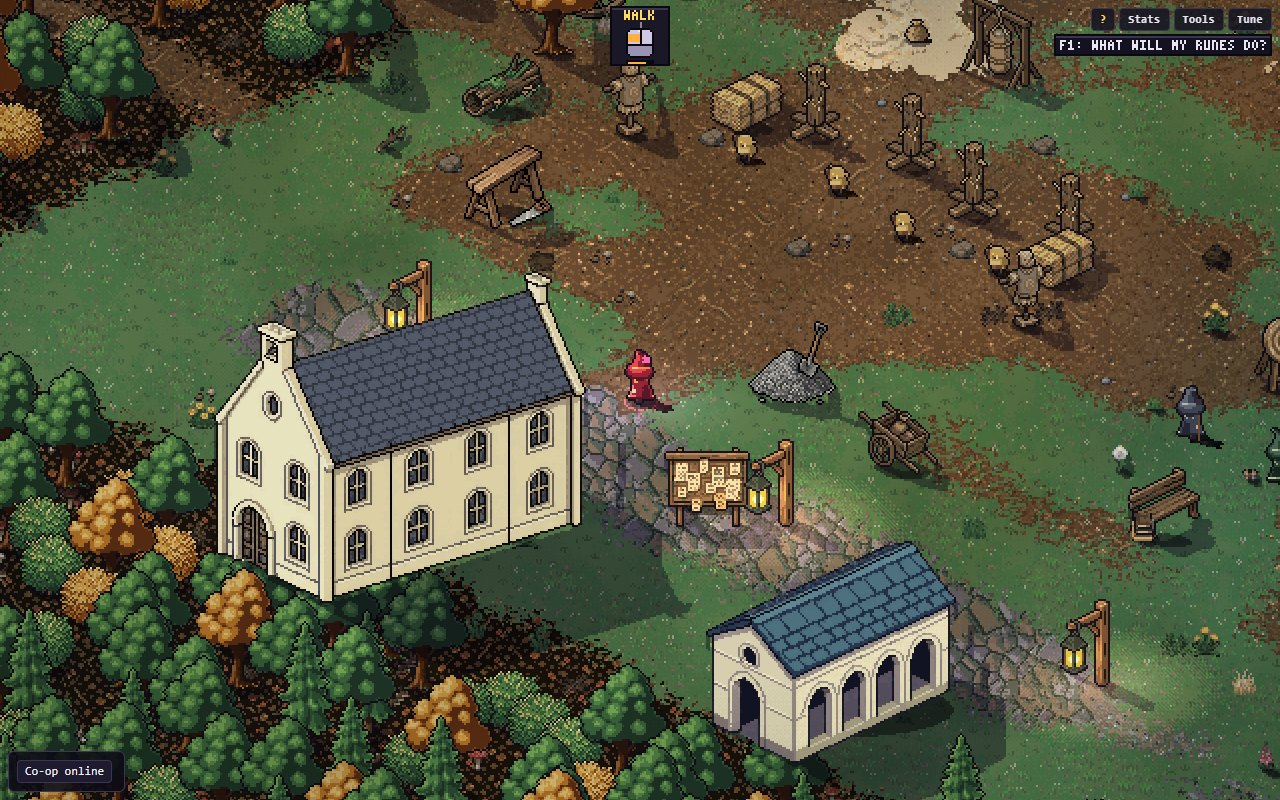
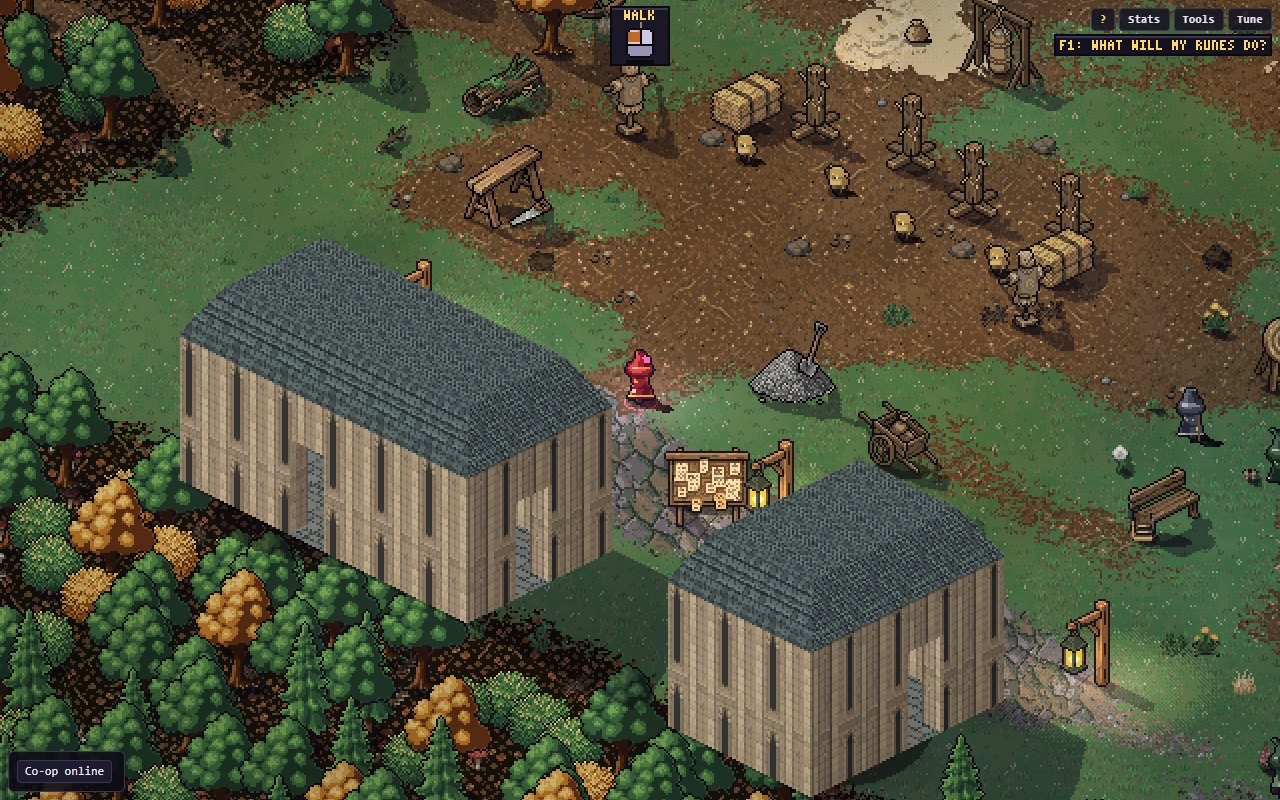
Yard buildings assembled from kits, at a person's scale
The user found one-picture buildings likely to look the wrong scale, and a
wizard against each confirmed it (the barracks and shed came to his head).
Two building kits bought with the user's approval (20 generations): academy
sandstone and slate, walls 3 tiles; timber over fieldstone with shingles, 2.
tools/art-import/buildings.py lays floor, walls with doorways and the hip
roof on the world's tile grid and writes each building as one prop whose
footprint is its tiles. The yard's hall, wing, barracks and shed use them; the
bought one-picture buildings stay as spares. The yard's hash trail is
re-recorded (bigger footprints); every other trail is unchanged.

Claude-Session: https://claude.ai/code/session_01JAzvjmRJ1wdD5eYGXNht1d

diff --git a/tools/segments/01-opening/segment.js b/tools/segments/01-opening/segment.js
@@ -28,7 +28,7 @@ chapters:[
  ],
  solve:[]},
 {id:'yard',name:'Drill yard, in a corner of the academy',
- shots:[['img/yard-strike.jpg','A wizard on a worn dirt path among four practice posts with straw goblins, the academy hall behind','Strike lanes: a straw goblin at each post. They stand again a while after they fall, to try the blade on.'],['img/yard-retreat.jpg','A hired soldier with a wooden mallet in a sand ring, a wizard beside him, the strike lanes and a casting line nearby','The slam ring. The soldier waits at his spot until someone steps in, and can\'t be beaten.'],['img/yard-parry.jpg','A long sand lane with a crossbowman at the far end, a bolt in flight, students at targets beside it','The parry lane. A training buckler is yours as you walk in.'],['img/yard-hands.jpg','Four straw goblins rushing a wizard in a sand ring, a fence and the woods beyond','The hands test: four straw goblins, animated, come at whoever steps into the ring.'],['img/yard-focus.jpg','A wizard by the stone gatehouse in the north wall, the focus rack beside it, fields past the wall','The rack and the gate. X takes a charged focus; with it, the gate leads on to the battery.'],['img/yard-barracks.jpg','Hired soldiers at spear drill before a timber barracks, the equipment shed with building stock beside it','The barracks and the shed. The soldiers and students are scenery: they drill and cast but aren\'t part of the game.'],['img/yard-garden.jpg','A small garden with a well, benches and two students, woods to the south','The garden between the cloister and the barracks, to wander through.'],['img/yard-start.jpg','The cream sandstone academy hall and cloister with the worn path leading up to the strike lanes','Where you come out: the hall and the cloister, the path up to the strike lanes.'],['img/yard-scale.jpg','A wizard standing against each building: the hall, the cloister, the barracks, the shed, the gatehouse','The scale check: a wizard against each building. The barracks, shed and cloister are too small for him; the gatehouse is far bigger.']],
+ shots:[['img/yard-strike.jpg','A wizard on a worn dirt path among four practice posts with straw goblins, the academy hall behind','Strike lanes: a straw goblin at each post. They stand again a while after they fall, to try the blade on.'],['img/yard-retreat.jpg','A hired soldier with a wooden mallet in a sand ring, a wizard beside him, the strike lanes and a casting line nearby','The slam ring. The soldier waits at his spot until someone steps in, and can\'t be beaten.'],['img/yard-parry.jpg','A long sand lane with a crossbowman at the far end, a bolt in flight, students at targets beside it','The parry lane. A training buckler is yours as you walk in.'],['img/yard-hands.jpg','Four straw goblins rushing a wizard in a sand ring, a fence and the woods beyond','The hands test: four straw goblins, animated, come at whoever steps into the ring.'],['img/yard-focus.jpg','A wizard by the stone gatehouse in the north wall, the focus rack beside it, fields past the wall','The rack and the gate. X takes a charged focus; with it, the gate leads on to the battery.'],['img/yard-barracks.jpg','Hired soldiers at spear drill before a timber barracks, the equipment shed with building stock beside it','The barracks and the shed. The soldiers and students are scenery: they drill and cast but aren\'t part of the game.'],['img/yard-garden.jpg','A small garden with a well, benches and two students, woods to the south','The garden between the cloister and the barracks, to wander through.'],['img/yard-start.jpg','The cream sandstone academy hall and cloister with the worn path leading up to the strike lanes','Where you come out: the hall and the cloister, the path up to the strike lanes.'],['img/yard-scale.jpg','A wizard standing against each building: the hall, the cloister, the barracks, the shed, the gatehouse','The scale check, before: a wizard against each bought building. The barracks, shed and cloister were too small for him; the gatehouse is far bigger.'],['img/yard-scale-kit.jpg','A wizard against each kit-built building: the two-storey sandstone hall and wing, the timber barracks and shed, and the gatehouse','After: the buildings assembled from the two kits, on the world\'s tile grid. Doors fit a wizard; the gatehouse is now the big one.']],
  map:{W:90,H:68,base:'grass',what:`A slice of the academy with the drill yard in it. You come out of the hall and follow one worn path from station to station, out to the rack and the gate. The garden, the barracks, the shed and the old farm to the west are there to wander.`,
   route:[[23.6,54],[22.6,47],[19,43],[16.5,36.5],[17.5,30.5],[24,25.5],[31,25],[36,30.5],[50,32.6],[59,28.5],[62,22.5],[62,14],[58,10.5],[50,9.5],[46,7.5],[46,0]],
   views:[['Strike lanes',21,43],['Parry lane',41,33],['At the rack',54,12]],
@@ -50,10 +50,11 @@ chapters:[
  [`One path, stations in order,`,` and none of them a gate: you can walk on from any of them, which is also how a returning player gets through quickly. Only the north gate waits for a focus.`],
  [`The sparring partners are hired soldiers.`,` One slams with a mallet, one shoots blunt bolts down the lane. They can't be beaten, stay at their station and wait for you. Nobody dies in the yard: at 0 health you faint and get up.`],
  [`Other students and soldiers are scenery.`,` Students are the wizard in academy robes; soldiers are a new figure drawn the same way as the wizard. They drill, cast at targets and sit in the garden. They cost nothing to run.`],
+ [`Buildings from kits.`,` The hall, a wing, the barracks and the shed are assembled from two building kits on the world's tile grid, so their doors and storeys are a person's size.`],
  [`Leftovers from building in a hurry,`,` and what the old farm left behind: stacked planks, logs, cut stone, a sawhorse, a tarp, an unfinished fence, a rusty plough, a wagon wheel (bought, below).`],
  ],
  solve:[
-  {id:'yard-buildings',title:'The buildings are the wrong scale',body:`You flagged it, and a wizard standing against each one shows it (the picture under the map's shots): the barracks' walls are about one wizard tall, the shed's eaves are at head height, the cloister's arches are barely taller than a wizard, and the hall reads as a cottage. Meanwhile the gatehouse's arch is about four wizards tall. A building bought as one picture gets its door and storey size from the generator, not from the world.`,proposal:`Build the buildings you walk next to from building kits at the world's 48 px tile, as the battery's wall is, so doors and storeys are person-sized by construction and a hall can be as big as the plan wants: one kit for the academy (cream sandstone, slate roof) and one for the barracks and shed (timber over fieldstone, shingles), about 10 to 15 generations each. The game needs two things for it, both free: more than one kit in a room, and roofs. One-picture buildings stay only for small things and far scenery, and every building is checked against a wizard before it's kept. Until then the four bought ones stand in.`},
+  {id:'yard-buildings',title:'The buildings, now built from kits',body:`Done, with the kits you approved: the hall, a wing, the barracks and the shed are now assembled from kit tiles on the world's grid (the second lineup picture). Their doors are a little taller than a wizard and the hall's two storeys about 2.3 wizards. What's left: the kit walls are plainer than the bought pictures, and the gatehouse now looks oversized. Before, you flagged it, and a wizard standing against each one showed it (the picture under the map's shots): the barracks' walls are about one wizard tall, the shed's eaves are at head height, the cloister's arches are barely taller than a wizard, and the hall reads as a cottage. Meanwhile the gatehouse's arch is about four wizards tall. A building bought as one picture gets its door and storey size from the generator, not from the world.`,proposal:`Done as proposed. Next, if you want: more ornament on the academy (a bought doorway or porch piece, local window detail), and a smaller gatehouse. Original proposal: build the buildings you walk next to from building kits at the world's 48 px tile, as the battery's wall is, so doors and storeys are person-sized by construction and a hall can be as big as the plan wants: one kit for the academy (cream sandstone, slate roof) and one for the barracks and shed (timber over fieldstone, shingles), about 10 to 15 generations each. The game needs two things for it, both free: more than one kit in a room, and roofs. One-picture buildings stay only for small things and far scenery, and every building is checked against a wizard before it's kept. Until then the four bought ones stand in.`},
   {id:'yard-prompts',title:'How much the stations say',body:`Each station shows a few words over its keys, like the battery's: "Strike", "Heavy: shove it into the ring", "Hop out of the slam", "Tap as the bolt lands", "Sweep: all the way round", "Take a charged focus", "Conjure a flame sword". The words are placeholders for your script.`,proposal:`Keep the battery's style for now and replace the words when the script stage comes. Is anything missing, such as a sign at the start pointing along the path?`},
   {id:'yard-etched',title:'The etched rule',body:`World and Progression settled that an early focus does only Conjure with Sigil. The yard's focus holds one Fire and one Sigil, so today you could also make a turret or a Fire spray with it.`,proposal:`Build the rule properly when Sigil arrives as a held element. Until then the prompt only teaches the blade, and a single charge makes other uses rare.`},
   {id:'yard-soldiers',title:'The soldiers, and who you spar with',body:`The sparring soldiers and the scenery soldiers are drawn in code, matching the wizard, rather than bought as characters. The hands test's straw goblins are training dummies brought to life.`,proposal:`Keep them drawn in code so they move and attack like every other body. A bought soldier would look different from the wizard beside him.`},
@@ -107,7 +108,7 @@ rules:[
  ['Four wizards fit.',' A Fire ring is 3 units in radius, so a fight wants about 6 units per player, and a room at least 24 by 18.'],
  ['Walks vary, and some are long.',' Sometimes you walk a while before anything happens, because that makes the world feel real. You cross a screen in about 7 seconds.'],
 ],
-buy:[{id:'job-yard',anchor:'buy-yard',name:`The drill yard and the academy round it`,cost:14,costLabel:'14 generations',tool:'Bought 2026-11-14, as you asked ("get assets"). 16 props in one 48 px job (10 generations) and four buildings at 1 each. All 20 are in the yard.',
+buy:[{id:'job-yard',anchor:'buy-yard',name:`The drill yard and the academy round it`,cost:14,costLabel:'14 generations',tool:'Bought 2026-11-14, as you asked ("get assets"). 16 props in one 48 px job (10 generations) and four buildings at 1 each. The four buildings came out the wrong scale and are replaced by kit-built ones (below); they stay as spares.',
  why:`Your notes asked for leftover material from building the yard in a hurry and for what used to be there, and for a bit of the academy round it. The school's wall kit is interior only, so the outside needed buildings.`,
  points:[
   [`Leftovers and the old farm:`,` stacked planks, a log pile, cut stone, a sawhorse, a ladder, fence posts, a tarp over a heap, a nail barrel, gravel with a shovel, an unfinished fence, a wagon wheel, a rusty plough, a broken barrel, old roof tiles, a rack of training jerkins, practice shields.`],

diff --git a/game/packages/sim/src/rooms.gen.ts b/game/packages/sim/src/rooms.gen.ts
@@ -818,7 +818,7 @@ export const ROOM_DEFS = {
   },
   yard: {
     id: 'yard', w: 90, h: 68,
-    // 7a3af84d: 180 x 136 cells, '.' floor, '#' rock
+    // 4c7385da: 180 x 136 cells, '.' floor, '#' rock
     terrain: [
       '....................................................................................................................................................................................',
       '....................................................................................................................................................................................',
@@ -963,8 +963,8 @@ export const ROOM_DEFS = {
     portals: [],
     altars: [],
     props: [
-      { asset: 'academy-hall', x: -21, y: 29.25, blocks: true },
-      { asset: 'cloister-walk', x: -3, y: 28.25, blocks: true },
+      { asset: 'bldg-academy-hall', x: -21, y: 29.5, blocks: true },
+      { asset: 'bldg-academy-wing', x: -2.5, y: 28.5, blocks: true },
       { asset: 'notice-board', x: -14.5, y: 22.25, blocks: true },
       { asset: 'lantern-post', x: -28, y: 21.25, blocks: true },
       { asset: 'lantern-post', x: -12, y: 21.25, blocks: true },
@@ -993,7 +993,7 @@ export const ROOM_DEFS = {
       { asset: 'stone-wall-low', x: 11, y: 17.25, blocks: true },
       { asset: 'stone-wall-low', x: 25, y: 17.25, blocks: true },
       { asset: 'stone-wall-low', x: 27, y: 17.25, blocks: true },
-      { asset: 'barracks', x: 35, y: 9, blocks: true },
+      { asset: 'bldg-barracks', x: 35.5, y: 9, blocks: true },
       { asset: 'water-trough', x: 29.5, y: 13.5, blocks: true },
       { asset: 'jerkin-rack', x: 31.5, y: 2.5, blocks: true },
       { asset: 'practice-shields', x: 33.5, y: 2.25, blocks: true },
@@ -1002,7 +1002,7 @@ export const ROOM_DEFS = {
       { asset: 'banner-red', x: 25, y: 0.5, blocks: true },
       { asset: 'barrel', x: 39.5, y: 3.5, blocks: true },
       { asset: 'crates', x: 40, y: 5.5, blocks: true },
-      { asset: 'equipment-shed', x: 16, y: 11.5, blocks: true },
+      { asset: 'bldg-shed', x: 16, y: 11.5, blocks: true },
       { asset: 'planks-stacked', x: 12, y: 15, blocks: true },
       { asset: 'logs-pile', x: 21, y: 15.5, blocks: true },
       { asset: 'stone-blocks', x: 10, y: 12.5, blocks: true },
@@ -1249,25 +1249,26 @@ export const ROOM_DEFS = {
       { asset: 'pine', x: 43, y: -31, blocks: true },
     ],
     propRock: [
-      [-25.25, 27, -16.75, 27], [-16.75, 27, -16.75, 31.5], [-16.75, 31.5, -25.25, 31.5],
-      [-25.25, 31.5, -25.25, 27], [-25.25, 28.125, -16.75, 28.125], [-25.25, 29.25, -16.75, 29.25],
-      [-25.25, 30.375, -16.75, 30.375], [-6.75, 26.75, 0.75, 26.75], [0.75, 26.75, 0.75, 29.75],
-      [0.75, 29.75, -6.75, 29.75], [-6.75, 29.75, -6.75, 26.75], [-6.75, 27.75, 0.75, 27.75],
-      [-6.75, 28.75, 0.75, 28.75], [-15.25, 22.25, -13.75, 22.25], [-28, 21.25, -28, 21.25],
+      [-27.114, 26.568, -14.886, 26.568], [-14.886, 26.568, -14.886, 32.432], [-14.886, 32.432, -27.114, 32.432],
+      [-27.114, 32.432, -27.114, 26.568], [-27.114, 27.741, -14.886, 27.741], [-27.114, 28.914, -14.886, 28.914],
+      [-27.114, 30.086, -14.886, 30.086], [-27.114, 31.259, -14.886, 31.259], [-5.432, 24.508, 0.432, 24.508],
+      [0.432, 24.508, 0.432, 32.493], [0.432, 32.493, -5.432, 32.493], [-5.432, 32.493, -5.432, 24.508],
+      [-4.259, 24.508, -4.259, 32.493], [-3.086, 24.508, -3.086, 32.493], [-1.914, 24.508, -1.914, 32.493],
+      [-0.741, 24.508, -0.741, 32.493], [-15.25, 22.25, -13.75, 22.25], [-28, 21.25, -28, 21.25],
       [-12, 21.25, -12, 21.25], [2, 21.25, 2, 21.25], [17.6, 23.75, 18.4, 23.75],
       [17.6, 24.25, 18.4, 24.25], [14.05, 21.5, 14.95, 21.5], [21.05, 21.5, 21.95, 21.5],
       [14.05, 26.5, 14.95, 26.5], [10.75, 20, 11.25, 20], [25.75, 28.5, 26.25, 28.5],
       [9.1, 28.8, 9.9, 28.8], [9.1, 29.2, 9.9, 29.2], [27.1, 19.3, 27.9, 19.3],
       [27.1, 19.7, 27.9, 19.7], [25.3, 25.9, 25.7, 25.9], [25.3, 26.1, 25.7, 26.1],
       [8.35, 17.25, 9.65, 17.25], [10.35, 17.25, 11.65, 17.25], [24.35, 17.25, 25.65, 17.25],
-      [26.35, 17.25, 27.65, 17.25], [31.75, 7.5, 38.25, 7.5], [38.25, 7.5, 38.25, 10.5],
-      [38.25, 10.5, 31.75, 10.5], [31.75, 10.5, 31.75, 7.5], [31.75, 8.5, 38.25, 8.5],
-      [31.75, 9.5, 38.25, 9.5], [28.95, 13.4, 30.05, 13.4], [28.95, 13.6, 30.05, 13.6],
+      [26.35, 17.25, 27.65, 17.25], [31.508, 7.129, 39.493, 7.129], [39.493, 7.129, 39.493, 10.872],
+      [39.493, 10.872, 31.508, 10.872], [31.508, 10.872, 31.508, 7.129], [31.508, 8.376, 39.493, 8.376],
+      [31.508, 9.624, 39.493, 9.624], [28.95, 13.4, 30.05, 13.4], [28.95, 13.6, 30.05, 13.6],
       [31.15, 2.5, 31.85, 2.5], [33.25, 2.1, 33.75, 2.1], [33.25, 2.4, 33.75, 2.4],
       [26.75, 0.75, 28.25, 0.75], [24.45, 0.5, 25.55, 0.5], [39.35, 3.5, 39.65, 3.5],
-      [39.65, 5.35, 40.35, 5.35], [39.65, 5.65, 40.35, 5.65], [13.5, 10, 18.5, 10],
-      [18.5, 10, 18.5, 13], [18.5, 13, 13.5, 13], [13.5, 13, 13.5, 10],
-      [13.5, 11, 18.5, 11], [13.5, 12, 18.5, 12], [11.55, 14.9, 12.45, 14.9],
+      [39.65, 5.35, 40.35, 5.35], [39.65, 5.65, 40.35, 5.65], [14.128, 9.628, 17.872, 9.628],
+      [17.872, 9.628, 17.872, 13.372], [17.872, 13.372, 14.128, 13.372], [14.128, 13.372, 14.128, 9.628],
+      [14.128, 10.876, 17.872, 10.876], [14.128, 12.124, 17.872, 12.124], [11.55, 14.9, 12.45, 14.9],
       [11.55, 15.1, 12.45, 15.1], [20.6, 15.35, 21.4, 15.35], [20.6, 15.65, 21.4, 15.65],
       [9.65, 12.3, 10.35, 12.3], [9.65, 12.7, 10.35, 12.7], [13.15, 16.25, 13.85, 16.25],
       [22.25, 12.9, 22.75, 12.9], [22.25, 13.1, 22.75, 13.1], [9.1, 9.25, 9.9, 9.25],
@@ -1364,7 +1365,7 @@ export const ROOM_DEFS = {
       { id: 'x-soldier-drill-0-3-180-3', x: 25.5, y: 7.4 },
       { id: 'x-soldier-drill-0-3-180-4', x: 27.7, y: 7.4 },
       { id: 'x-soldier-drill-0-3-180-5', x: 29.9, y: 7.4 },
-      { id: 'x-soldier-idle-0-0-180-6', x: 31.6, y: 9 },
+      { id: 'x-soldier-idle-0-0-180-6', x: 29.6, y: 12.6 },
       { id: 'x-soldier-spar-1-0-0-7', x: 19.6, y: 3.6 },
       { id: 'x-soldier-spar-2-0-180-8', x: 21.4, y: 3.6 },
       { id: 'x-student-cast-4-0-270-9', x: -7, y: 8.4 },

diff --git a/tools/art-import/buildings.py b/tools/art-import/buildings.py
@@ -1,0 +1,136 @@
+"""Buildings assembled from the bought building kits, on the world's own tile grid, so doors and storeys are a person's
+size by construction (the user, 2026-11-14: buildings bought as one picture come out the wrong scale). No generation calls.
+
+  python tools/art-import/buildings.py [--sheet out.png]
+
+Each building is a rectangle of whole kit tiles (one tile is 48 x 24 art px, 2.12 world units a side): walls round its
+edge from the kit's side and corner pieces, doorways where asked, and the kit's hip roof on top (eaves on the edges,
+hips at the corners, the flat middle inside). It is written as one prop, `bldg-<name>`, whose footprint is exactly its
+tiles, so it blocks and sorts like any prop. Raw kits: game/content/generated/pixellab/opening/kit-academy-ext and
+kit-timber (tools/segments/01-opening/yard-buy.json has their descriptions).
+"""
+import os, sys
+import numpy as np
+from PIL import Image, ImageChops
+from props import ROOT, register
+
+RAWREL = 'game/content/generated/pixellab/opening'
+INTERIOR = (28, 22, 20, 255)  # the dark seen through a doorway
+TILE_U = 24 / (0.5 ** 0.5 * 16)  # world units along a tile's edge: 24 px across the screen at 16 px a unit, turned 45 degrees
+# kit piece indices (get_tiles_pro's placement rules; the same in both kits)
+P = dict(side=dict(N=1, E=2, S=3, W=4), outer=dict(NE=9, SE=10, SW=11, NW=12), door=dict(N=32, E=34, S=36, W=38),
+         eave=dict(N=60, E=61, S=62, W=63), hip=dict(NE=64, SE=65, SW=66, NW=67), roof_mid=79,
+         ridge=dict(EW=72, NS=73), end=dict(E=74, W=75, N=76, S=77))
+KITS = {
+    # wall height in tiles, and where the tile's middle sits in each 76 px wide piece
+    'academy': dict(raw='kit-academy-ext', walls=3, cy=91),
+    'timber': dict(raw='kit-timber', walls=2, cy=67),
+}
+# name: kit, size in tiles along x (east) and y (south), doorways as (side, tile along that side), what it's for
+BUILDINGS = {
+    'academy-hall': ('academy', 6, 3, [('S', 2), ('E', 1)], 'The academy hall, two storeys'),
+    'academy-wing': ('academy', 3, 4, [('E', 1)], 'A wing of the academy'),
+    'barracks': ('timber', 4, 2, [('S', 1)], 'The hired soldiers\' barracks'),
+    'shed': ('timber', 2, 2, [('S', 0)], 'A shed'),
+}
+
+
+def piece(kit, i):
+    return Image.open(os.path.join(ROOT, RAWREL, KITS[kit]['raw'], f'tile_{i:02d}.png')).convert('RGBA')
+
+
+def compose(kit, W, D, doors):
+    k = KITS[kit]
+    lift = k['walls'] * 24
+    pw, ph = piece(kit, 0).size
+    # cell (i, j) -> its tile's middle, relative to the building's west corner
+    span_x, span_y = (W + D) * 24, (W + D) * 12
+    pad_top = lift + ph
+    img = Image.new('RGBA', (span_x + pw, span_y + pad_top + 24), (0, 0, 0, 0))
+    ox, oy = D * 24 + pw // 2, pad_top
+
+    def at(i, j):
+        return ox + (i - j) * 24, oy + (i + j) * 12 + 12
+
+    def stamp(idx, i, j, up=0):
+        cx, cy = at(i, j)
+        img.alpha_composite(piece(kit, idx), (cx - 38, cy - k['cy'] - up))
+
+    # the floor first, so a doorway looks in on the floor and the far walls' inner faces, not through the building
+    for j in range(D):
+        for i in range(W):
+            stamp(0, i, j)
+    door = set(doors)
+    walls = []
+    for j in range(D):
+        for i in range(W):
+            n, s, w, e = j == 0, j == D - 1, i == 0, i == W - 1
+            parts = []
+            if n: parts.append(('N', i))
+            if s: parts.append(('S', i))
+            if w: parts.append(('W', j))
+            if e: parts.append(('E', j))
+            for side, along in parts:
+                walls.append((i + j, i, j, P['door'][side] if (side, along) in door else P['side'][side]))
+    # back to front: far cells first, and within a cell the far sides (N, W) before the near (S, E)
+    holes = Image.new('L', img.size, 0)
+    for _, i, j, idx in sorted(walls, key=lambda t: (t[0], t[3] in (P['side']['S'], P['side']['E'], P['door']['S'], P['door']['E']))):
+        stamp(idx, i, j)
+        side = next((s for s, d in P['door'].items() if d == idx), None)
+        if side:
+            # the doorway's hole: where the plain wall is solid and the door piece isn't
+            wall_a, door_a = np.array(piece(kit, P['side'][side]).getchannel('A')), np.array(piece(kit, idx).getchannel('A'))
+            cx, cy = at(i, j)
+            holes.paste(255, (cx - 38, cy - k['cy']), Image.fromarray(((wall_a > 0) & (door_a == 0)).astype('uint8') * 255))
+    # a doorway looks into the dark, wherever it shows nothing of the floor or the far walls
+    see = img.getchannel('A').point(lambda a: 255 if a == 0 else 0)
+    img =Image.composite(Image.new('RGBA', img.size, INTERIOR), img, ImageChops.multiply(holes, see))
+    roof = []
+    for j in range(D):
+        for i in range(W):
+            n, s, w, e = j == 0, j == D - 1, i == 0, i == W - 1
+            if W == 1 and D == 1:
+                idx = 78
+            elif D == 1:
+                idx = P['end']['W'] if w else P['end']['E'] if e else P['ridge']['EW']
+            elif W == 1:
+                idx = P['end']['N'] if n else P['end']['S'] if s else P['ridge']['NS']
+            elif n and w: idx = P['hip']['NW']
+            elif n and e: idx = P['hip']['NE']
+            elif s and w: idx = P['hip']['SW']
+            elif s and e: idx = P['hip']['SE']
+            elif n: idx = P['eave']['N']
+            elif s: idx = P['eave']['S']
+            elif w: idx = P['eave']['W']
+            elif e: idx = P['eave']['E']
+            else: idx = P['roof_mid']
+            roof.append((i + j, i, j, idx))
+    for _, i, j, idx in sorted(roof):
+        stamp(idx, i, j, lift)
+    # the foot: the middle of the building's floor, where the prop's spot is
+    fx, fy = at((W - 1) / 2, (D - 1) / 2)
+    box = img.getchannel('A').getbbox()
+    return img.crop(box), [round(fx - box[0]), round(fy - box[1])]
+
+
+def main():
+    sheet = sys.argv[sys.argv.index('--sheet') + 1] if '--sheet' in sys.argv else None
+    made = []
+    for name, (kit, W, D, doors, what) in BUILDINGS.items():
+        im, foot = compose(kit, W, D, doors)
+        pid = 'bldg-' + name
+        register(pid, what, [round(W * TILE_U, 3), round(D * TILE_U, 3)], im, f'{RAWREL}/{KITS[kit]["raw"]}', 'create_building_kit (assembled)',
+                 edits=f'assembled from the kit: {W} x {D} tiles, doors {doors}', foot=foot)
+        made.append(im)
+        print(pid, im.size, 'foot', foot, 'footprint', round(W * TILE_U, 2), 'x', round(D * TILE_U, 2))
+    if sheet:
+        w = sum(m.width for m in made) + 20 * len(made)
+        out = Image.new('RGBA', (w, max(m.height for m in made)), (58, 74, 46, 255))
+        x = 0
+        for m in made:
+            out.alpha_composite(m, (x, out.height - m.height)); x += m.width + 20
+        out.resize((out.width * 2, out.height * 2), Image.NEAREST).save(sheet)
+
+
+if __name__ == '__main__':
+    main()

diff --git a/tools/segments/01-opening/yard-level.py b/tools/segments/01-opening/yard-level.py
@@ -115,8 +115,8 @@ def prop(asset, x, y, blocks=False):
     props.append((asset, round(x * 4) / 4, round(y * 4) / 4, blocks))
 
 # the academy along the south: the hall you come out of, the cloister, the garden
-prop('academy-hall', 24, 63.2, True)
-prop('cloister-walk', 42, 62.2, True)
+prop('bldg-academy-hall', 24, 63.4, True)      # kit-built (tools/art-import/buildings.py), so it's a person's scale
+prop('bldg-academy-wing', 42.5, 62.6, True)
 prop('notice-board', 30.5, 56.2, True)
 for x in (17, 33, 47):
     prop('lantern-post', x, 55.2, True)
@@ -130,11 +130,11 @@ for asset, x, y in [('white-daisy-clump', 61, 56), ('red-poppy-clump', 65.5, 60.
 for x in (54, 56, 70, 72):
     prop('stone-wall-low', x, 51.3, True)                 # the garden's low wall, open where the paths come through
 # the barracks and their drill ground, the shed with the building stock round it
-prop('barracks', 80, 43, True)
+prop('bldg-barracks', 80.5, 43, True)
 for asset, x, y in [('water-trough', 74.5, 47.5), ('jerkin-rack', 76.5, 36.5), ('practice-shields', 78.5, 36.2), ('washing-line', 84, 50), ('weapon-rack', 72.5, 34.8),
                     ('banner-red', 70, 34.5), ('barrel', 84.5, 37.5), ('crates', 85, 39.5)]:
     prop(asset, x, y, asset not in ('washing-line',))
-prop('equipment-shed', 61, 45.5, True)
+prop('bldg-shed', 61, 45.5, True)
 for asset, x, y in [('planks-stacked', 57, 49), ('logs-pile', 66, 49.5), ('stone-blocks', 55, 46.5), ('sawhorse', 58.6, 50.2), ('ladder-lying', 64.5, 51),
                     ('fence-posts-bundle', 67.5, 47), ('tarp-heap', 54.5, 43.5), ('nail-barrel', 60, 50.4), ('gravel-heap', 52.5, 48.5), ('wheelbarrow', 54.6, 50.6),
                     ('pile-of-sawdust', 57.6, 51.4), ('coil-of-rope', 63, 49.8)]:
@@ -225,7 +225,7 @@ def person(kind, act, pal, variant, face, x, y):
 for r in range(2):                                 # soldiers at spear drill before the barracks, facing west
     for c in range(3):
         person('soldier', 'drill', 0, 3, 180, 70.5 + c * 2.2, 39 + r * 2.4)
-person('soldier', 'idle', 0, 0, 180, 76.6, 43)     # their sergeant, watching them
+person('soldier', 'idle', 0, 0, 180, 74.6, 46.6)     # their sergeant, watching them
 person('soldier', 'spar', 1, 0, 0, 64.6, 37.6)     # two at it with practice swords
 person('soldier', 'spar', 2, 0, 180, 66.4, 37.6)
 person('student', 'cast', 4, 0, 270, 38, 42.4)     # the casting line, at the targets

diff --git a/docs/decisions/README.md b/docs/decisions/README.md
@@ -19,7 +19,7 @@ Append-only. Each entry records the date, the decision, why it was made, and the
 - **Rooms, Survive, death:** [Preparation pillar; death is harsher](#2026-11-03-preparation-pillar-death-is-harsher) · [Survive mode in the game](#2026-11-05-survive-mode-in-the-game-explorations2026-11-05-survive-modemd) · [Survive's arena is big](#2026-11-05-survives-arena-is-big-and-the-camera-follows) · [Survive grows to 48 x 34](#2026-11-05-survive-grows-to-48-x-34-guards-read-from-behind-a-stalled-page-no-longer-drops-the-others) · [Survive gets Rally and Echo](#2026-11-05-survive-gets-rally-and-echo) · [Survive Review answers, round 1](#2026-11-05-survive-review-answers-round-1) · [Survive power-ups, pass 2](#2026-11-06-survive-power-ups-pass-2-the-maybes-explorations2026-11-06-survive-powerups-2md) · [Rally: a hit drains the ring](#2026-11-05-rally-a-hit-drains-the-ring-instead-of-emptying-it) · [Survive on the encounter runner; the Arena is legacy](#2026-11-13-survive-runs-on-the-encounter-runner-the-arena-is-legacy) · [Checkpoints, the chapter jump and the campaign save](#2026-11-13-checkpoints-the-chapter-jump-and-the-campaign-save) · [The party carries what you've unlocked](#2026-11-13-the-party-carries-what-youve-unlocked-between-areas-possession-becomes-a-core-mechanic)
 - **Maps and content:** [Outdoor art, Tier 1 and painted ground](#2026-11-07-outdoor-art-tier-1-and-painted-ground-explorations2026-11-07-outdoor-art-kit-resultsmd) · [The mock academy room](#2026-11-06-the-mock-academy-room-explorations2026-11-06-art-trial-round-2md) · [Content direction: LDtk as the user's editor](#2026-11-06-content-direction-our-pipeline-with-ldtk-as-the-users-editor) · [Art direction: true isometric, PixelLab props, the detailed wizard](#2026-11-06-art-direction-true-isometric-pixellab-props-the-detailed-wizard) · [Map pipeline, stage 1: the rooms are LDtk maps](#2026-11-06-map-pipeline-stage-1-the-rooms-are-ldtk-maps-explorations2026-11-06-map-pipeline-stage-1md) · [The ground painter](#2026-11-09-the-ground-painter-and-the-first-general-art-for-the-opening-campaign01-openingspacemd) · [The isometric camera, on trial](#2026-11-09-the-isometric-camera-on-trial-ground-transitions-and-variation) · [Scene lighting, on trial](#2026-11-09-scene-lighting-on-trial-with-the-isometric-camera-explorations2026-11-09-lightingmd) · [Isometric is the only camera](#2026-11-09-isometric-is-the-only-camera-walls-and-spells-in-the-lighting-explorations2026-11-09-lightingmd) · [Room walls from the building kits](#2026-11-09-room-walls-from-the-building-kits) · [A continuous world is the goal, and waits](#2026-11-09-a-continuous-world-is-the-goal-and-waits-explorations2026-11-09-continuous-world-todomd) · [Terrain is read-only room data](#2026-11-10-terrain-is-read-only-room-data-with-no-per-room-limit-explorations2026-11-09-continuous-world-todomd) · [Tags are shared roles; markers editable in LDtk](#2026-11-13-tags-are-shared-roles-markers-are-placed-by-claude-and-editable-in-ldtk-explorations2026-11-13-encounters-as-datamd)
 - **World, map and story:** [The world map's scale and look](#2026-11-08-the-world-maps-scale-and-look-explorations2026-11-08-fantasy-mapmd) · [The world map, round 3](#2026-11-08-the-world-map-round-3-explorations2026-11-08-fantasy-map-round-3md) · [Map art one subject at a time, rejected](#2026-11-08-map-art-painted-one-subject-at-a-time-is-rejected-explorations2026-11-08-map-art-trialmd) · [Seed, then painting, then labels](#2026-11-08-the-map-pipeline-is-seed-then-painting-then-labels-explorations2026-11-08-map-art-trialmd) · [ChatGPT paints the world map](#2026-11-09-chatgpt-paints-the-world-map-in-two-passes-explorations2026-11-08-map-art-trialmd) · [The story's spine isn't a rival system](#2026-11-09-the-storys-spine-isnt-a-rival-system-explorations2026-11-09-story) · [Wells are built; the story candidates reviewed](#2026-11-09-wells-are-built-and-the-four-story-candidates-reviewed-explorations2026-11-09-story) · [The story's hook: the veins shift](#2026-11-09-the-storys-hook-is-a-year-when-the-veins-shift-explorations2026-11-09-story-directionmd) · [Casting is new](#2026-11-09-casting-is-new-and-you-fix-infrastructure-explorations2026-11-09-opening-and-innate-castingmd)
-- **The opening and the battery:** [One working document per segment](#2026-11-10-one-working-document-per-segment-the-openings-first-pass-stops-at-the-battery) · [The battery's plan](#2026-11-10-the-batterys-plan-from-the-opening-segment-page-round-2) · [The defence is a flamethrower](#2026-11-10-the-defence-is-a-flamethrower-with-a-head-that-turns) · [A well holds up a column of light](#2026-11-10-a-well-holds-up-a-column-of-light) · [The battery is an outdoor area](#2026-11-10-the-battery-is-an-outdoor-area) · [The battery's waves, one lane per defence](#2026-11-10-the-batterys-waves-come-down-one-lane-per-defence-first-pass) · [The goblins break the stakes](#2026-11-11-the-goblins-break-the-stakes-not-the-wall) · [The battery is a lesson, not waves](#2026-11-11-the-battery-is-a-lesson-not-waves) · [The battery replayed](#2026-11-14-the-battery-replayed) · [The drill yard](#2026-11-14-the-drill-yard-built-in-a-corner-of-the-academy)
+- **The opening and the battery:** [One working document per segment](#2026-11-10-one-working-document-per-segment-the-openings-first-pass-stops-at-the-battery) · [The battery's plan](#2026-11-10-the-batterys-plan-from-the-opening-segment-page-round-2) · [The defence is a flamethrower](#2026-11-10-the-defence-is-a-flamethrower-with-a-head-that-turns) · [A well holds up a column of light](#2026-11-10-a-well-holds-up-a-column-of-light) · [The battery is an outdoor area](#2026-11-10-the-battery-is-an-outdoor-area) · [The battery's waves, one lane per defence](#2026-11-10-the-batterys-waves-come-down-one-lane-per-defence-first-pass) · [The goblins break the stakes](#2026-11-11-the-goblins-break-the-stakes-not-the-wall) · [The battery is a lesson, not waves](#2026-11-11-the-battery-is-a-lesson-not-waves) · [The battery replayed](#2026-11-14-the-battery-replayed) · [The drill yard](#2026-11-14-the-drill-yard-built-in-a-corner-of-the-academy) · [Buildings from kits](#2026-11-14-buildings-are-assembled-from-kits-not-bought-as-one-picture)
 - **Sound:** [Sound, stage 1](#2026-11-06-sound-stage-1-explorations2026-11-06-soundmd) · [Sound goes depth first](#2026-11-06-sound-goes-depth-first-explorations2026-11-06-sound-depth-firstmd)
 - **Balance and tuning:** [Upkeep per rune; one missile speed](#2026-11-11-channels-pay-upkeep-per-rune-so-beams-buy-power-one-missile-speed) · [Beams scale with √n; range 30; faster rocks](#2026-11-10-beams-hit-harder-with-more-runes-beams-reach-30-rocks-fly-faster) · [Balance tooling and the first measurements](#2026-11-04-balance-tooling-and-the-first-measurements) · [The host tunes online matches](#2026-11-05-the-host-tunes-online-matches) · [Weapons are the cheap option; extras you can see](#2026-11-05-weapons-are-the-cheap-option-a-strike-rhythm-per-weapon-and-extras-you-can-see) · [Rune scaling audit](#2026-11-07-rune-scaling-audit-four-fixes-and-a-1-rune-line-in-f2-explorations2026-11-07-rune-scalingmd) · [Play-test bugs, 2026-11-09](#2026-11-09-play-test-bugs-area-floors-the-staff-hand-ice-shields-a-drag-undone) · [Spell audit, step 9: the cross-cut](#2026-11-11-spell-audit-step-9-the-cross-cut)
 - **Menus and navigation:** [The Esc menu and the scenario registry](#2026-11-06-the-esc-menu-and-the-scenario-registry) · [The tutorial prototype](#2026-11-06-the-tutorial-prototype-explorations2026-11-06-tutorialmd) · [The tutorial, pass 2](#2026-11-06-the-tutorial-pass-2-explorations2026-11-06-tutorial-pass-2md) · [Final-pass review](#2026-11-06-final-pass-review-rules-text-room-switches-and-shared-keys) · [Final-pass loose ends and code quality](#2026-11-06-final-pass-loose-ends-and-code-quality)
@@ -1611,3 +1611,10 @@ The opening's beats 2 and 3, built as an area (`#yard`, key 7). It follows the y
 - **The people who live there are scenery** (`client/src/art/extras.ts`): students are the wizard rig in three academy robes, and soldiers are a new rig (`drawSoldier`) carrying a practice sword, a mallet, a crossbow or a spear. They drill, spar, cast at targets and sit in the garden. The sim never sees them. The page had planned to buy a soldier character; drawing him in code keeps him matching the wizard and lets the same figure fight.
 - **Bought (14 generations, prompts in `tools/segments/01-opening/yard-buy.json`):** 16 leftovers in one 48 px job, plus four buildings (the academy hall, a cloister walk, the barracks, an equipment shed), registered by `tools/art-import/yard.py`. The user asked for assets in the same message, which Claude took as the sign-off.
 - Every other mode's hash trail, the golden hash and the balance reports are unchanged. The yard has its own trail.
+
+## 2026-11-14: Buildings are assembled from kits, not bought as one picture
+The user, on the drill yard: "Be careful with building that are just a single sprite. I feel like they're going to look like they're the wrong scale for the world." Measured in the game with a wizard against each building: the bought barracks' walls were about one wizard tall, the shed's eaves at head height, the cloister's arches barely taller than a wizard, while the gatehouse's arch was about four wizards tall.
+- **Buildings people walk next to are assembled from building kits** on the world's tile grid (48 x 24 art px, 2.12 u a side), so doors and storeys are person-sized by construction. `tools/art-import/buildings.py` lays a rectangle of whole tiles: its floor, walls with doorways, and the kit's hip roof. It writes each building as one prop whose footprint is exactly its tiles, so blocking and depth work as for any prop, with no engine change.
+- **Two kits bought, 20 generations** (descriptions approved by the user): the academy's cream sandstone with a slate roof, walls 3 tiles high (two storeys); timber over fieldstone with shingles, 2 tiles (one storey). The yard's hall, wing, barracks and shed are built from them. The four one-picture buildings stay registered as spares, unused.
+- **Every building is checked against a wizard in the game before it's kept.** One-picture buildings only for small things and far scenery.
+- *Open:* the kit facades are plainer than the one-picture ones, and the gatehouse is now the outlier at about four wizards tall.

diff --git a/docs/current-state.md b/docs/current-state.md
@@ -59,7 +59,7 @@ Play it: https://magnevan.github.io/wizard-sim/ (code in `../game/`, commands in
 - **A ground painter exists, and no room uses it yet:** a client-only Ground layer in LDtk (twelve materials, each with its own edge style, plus alternates and scattered props), painted per pixel through the camera. Rooms with no Ground cells keep the code-drawn floor. How to edit: `game/content/README.md`. D: [The ground painter](decisions/README.md#2026-11-09-the-ground-painter-and-the-first-general-art-for-the-opening-campaign01-openingspacemd).
 - **Room walls can come from a bought kit** (the Academy's do; how: `game/content/README.md`). Far walls stand tall and near walls are cut low. Other rooms keep the drawn walls.
 - **Scene lighting:** a mood per room (`?mood=day|dusk|night|interior`, `?lighting=0` for off), cast shadows, lamps on props, a colour grade. See `explorations/2026-11-09-lighting.md`. Walls stop light and their faces catch it, and spells light along their length. It hasn't been measured on a real graphics card.
-- **The drill yard** (`#yard`, key 7): the opening's beats 2 and 3, a 90 x 68 corner of the academy. You come out of the hall; the cloister, a garden, the hired soldiers' barracks, an equipment shed with building stock, the old farm and fields past the north wall are round it. One worn path runs between stations, none of them a gate: strike the straw goblins, shove the sack into the ring, hop out of a soldier's slam, parry a crossbowman's bolt, then four straw goblins at once. Each shows its keys as you walk up. The sparring soldiers can't be beaten and wait at their spots, and nobody dies here. X at the rack gives a charged focus (one Fire, one Sigil, no regen) and teaches the flame sword; with it, the gate leads on to the battery. Students and soldiers drill and cast round you as scenery (`art/extras.ts`). `?at=focus` starts at the rack. D: [The drill yard](decisions/README.md#2026-11-14-the-drill-yard-built-in-a-corner-of-the-academy).
+- **The drill yard** (`#yard`, key 7): the opening's beats 2 and 3, a 90 x 68 corner of the academy. You come out of the hall; the cloister, a garden, the hired soldiers' barracks, an equipment shed with building stock, the old farm and fields past the north wall are round it. One worn path runs between stations, none of them a gate: strike the straw goblins, shove the sack into the ring, hop out of a soldier's slam, parry a crossbowman's bolt, then four straw goblins at once. Each shows its keys as you walk up. The sparring soldiers can't be beaten and wait at their spots, and nobody dies here. X at the rack gives a charged focus (one Fire, one Sigil, no regen) and teaches the flame sword; with it, the gate leads on to the battery. Students and soldiers drill and cast round you as scenery (`art/extras.ts`). Its buildings are assembled from two bought building kits on the world's tile grid (`tools/art-import/buildings.py`), so doors and storeys are a person's size. `?at=focus` starts at the rack. D: [The drill yard](decisions/README.md#2026-11-14-the-drill-yard-built-in-a-corner-of-the-academy), [Buildings from kits](decisions/README.md#2026-11-14-buildings-are-assembled-from-kits-not-bought-as-one-picture).
 - **The battery** (`#battery`, key 6): the opening's first job, built as an outdoor area, 84 x 72: the fortified wall through the middle, four defences, the well, a killing ground and a rear yard, with woods painted past the edge so it doesn't read as a room. A standing wall of fire (Shield + Fire + Fire) fills the gate: you can walk through it and it burns you. X at a pedestal takes that defence: Fire only, a longer flamethrower, and a half-ring from Area or the Weapon's burst, and X steps away. It's a lesson, not waves: goblins hack at the stakes in the field as you arrive, and the stakes break when you take a defence; taking a defence teaches the ring, then the flamethrower, Place and a brute, each prompt with its keys, then quiet groups. No announcements or timers, and driving is risk free. The flame lands where you aim. Enemies behind the wall show through it as silhouettes. The well is overloaded from the start; after the lesson it fails over 75 s and runs dry, the defences and the gate's fire go out, you're infused with one Fire rune of your own and goblins come through the gate for you. The overload crackles along the glyph paths and climbs in a drone, then bursts. Your own regen there is 0.25 a second and you have hidden double hp; from the infusion a green Life circle by the well lets you channel Life to heal (channel circles' first). The next group comes once one of the last is left. Then X at the well repairs it: a fade to black and back, the well rises steady and the defences relight (its checkpoints, `?at=well-failing` and `?at=repair` or the Esc menu, jump there; a campaign save keeps the furthest passed; [playtest list](explorations/2026-11-10-battery-playtest-todo.md)). D: [The battery is an outdoor area](decisions/README.md#2026-11-10-the-battery-is-an-outdoor-area), [The battery is a lesson](decisions/README.md#2026-11-11-the-battery-is-a-lesson-not-waves), [The battery replayed](decisions/README.md#2026-11-14-the-battery-replayed).
 - **The Sanctum** (default): three practice dummies, with the tuning panel (F2). **The Arena** (`#arena`, legacy: kept for tests, not migrated): waves from portals, lulls and breathers. **Survive** (`#survive`): a 48 x 34 walled arena, endless waves. D: [Survive mode in the game](decisions/README.md#2026-11-05-survive-mode-in-the-game-explorations2026-11-05-survive-modemd), [Survive grows to 48 x 34](decisions/README.md#2026-11-05-survive-grows-to-48-x-34-guards-read-from-behind-a-stalled-page-no-longer-drops-the-others).
 - **The camera follows your own wizard, in every room,** at one fixed scale (no zoom-out), stopping a little past the arena's edge; where the arena fits the screen it only drifts toward you. Other wizards off screen get an arrow at the edge in their seat colour (blinking while downed), beside the enemy and portal marks. Several local seats on one screen share it: the camera aims at their middle, and an arena that fits is framed still. D: [Survive Review answers, round 1](decisions/README.md#2026-11-05-survive-review-answers-round-1).

diff --git a/docs/explorations/2026-11-14-drill-yard.md b/docs/explorations/2026-11-14-drill-yard.md
@@ -42,6 +42,15 @@ Play it: `#yard`, key 7, or the Esc menu's Campaign list. `npm run check:yard` d
   - The page had planned to buy a soldier as a character. A code rig matches the wizard beside him and can fight with the same poses.
 - **Everything else was already owned:** dummies, the sack's gallows, pells, targets, racks, the focus rack, fences, hay, the gatehouse, trees and flowers.
 
+## The buildings, rebuilt from kits (same day)
+
+The user: "Be careful with building that are just a single sprite. I feel like they're going to look like they're the wrong scale for the world." A wizard against each bought building confirmed it: the barracks and shed came up to his head, the cloister's arches just cleared his hat, while the gatehouse's arch stood four wizards tall. A one-picture building gets its door and storey size from the generator.
+
+- Two building kits bought, 20 generations (1,656 → 1,636), descriptions approved by the user: academy sandstone and slate (walls 3 tiles, two storeys), and timber over fieldstone with shingles (2 tiles, one storey).
+- `tools/art-import/buildings.py` assembles a rectangle of whole kit tiles (floor, walls with doorways, hip roof) into one prop whose footprint is its tiles: `bldg-academy-hall` (6 x 3 tiles, 12.7 x 6.4 u), `bldg-academy-wing` (3 x 4), `bldg-barracks` (4 x 2), `bldg-shed` (2 x 2).
+- In the game the hall's doors are a little taller than a wizard and its two storeys about 2.3 wizards, and the barracks' and shed's doors fit a person.
+- Trade-offs: the kit facades are plain (window slits, no ornament), and the gatehouse now looks oversized. The old one-picture buildings stay registered as spares.
+
 ## How it's built
 
 - `sim/src/yard.ts`: the stations as `w.yard` state. Markers in the level give the spots (`straw-0..3`, `heavy`, `heavy-ring`, `retreat`, `parry`, `parry-home`, `hands`, `hands-in-0..3`, `focus`, `gate`). Its two checkpoints are `?at=start` and `?at=focus`.
